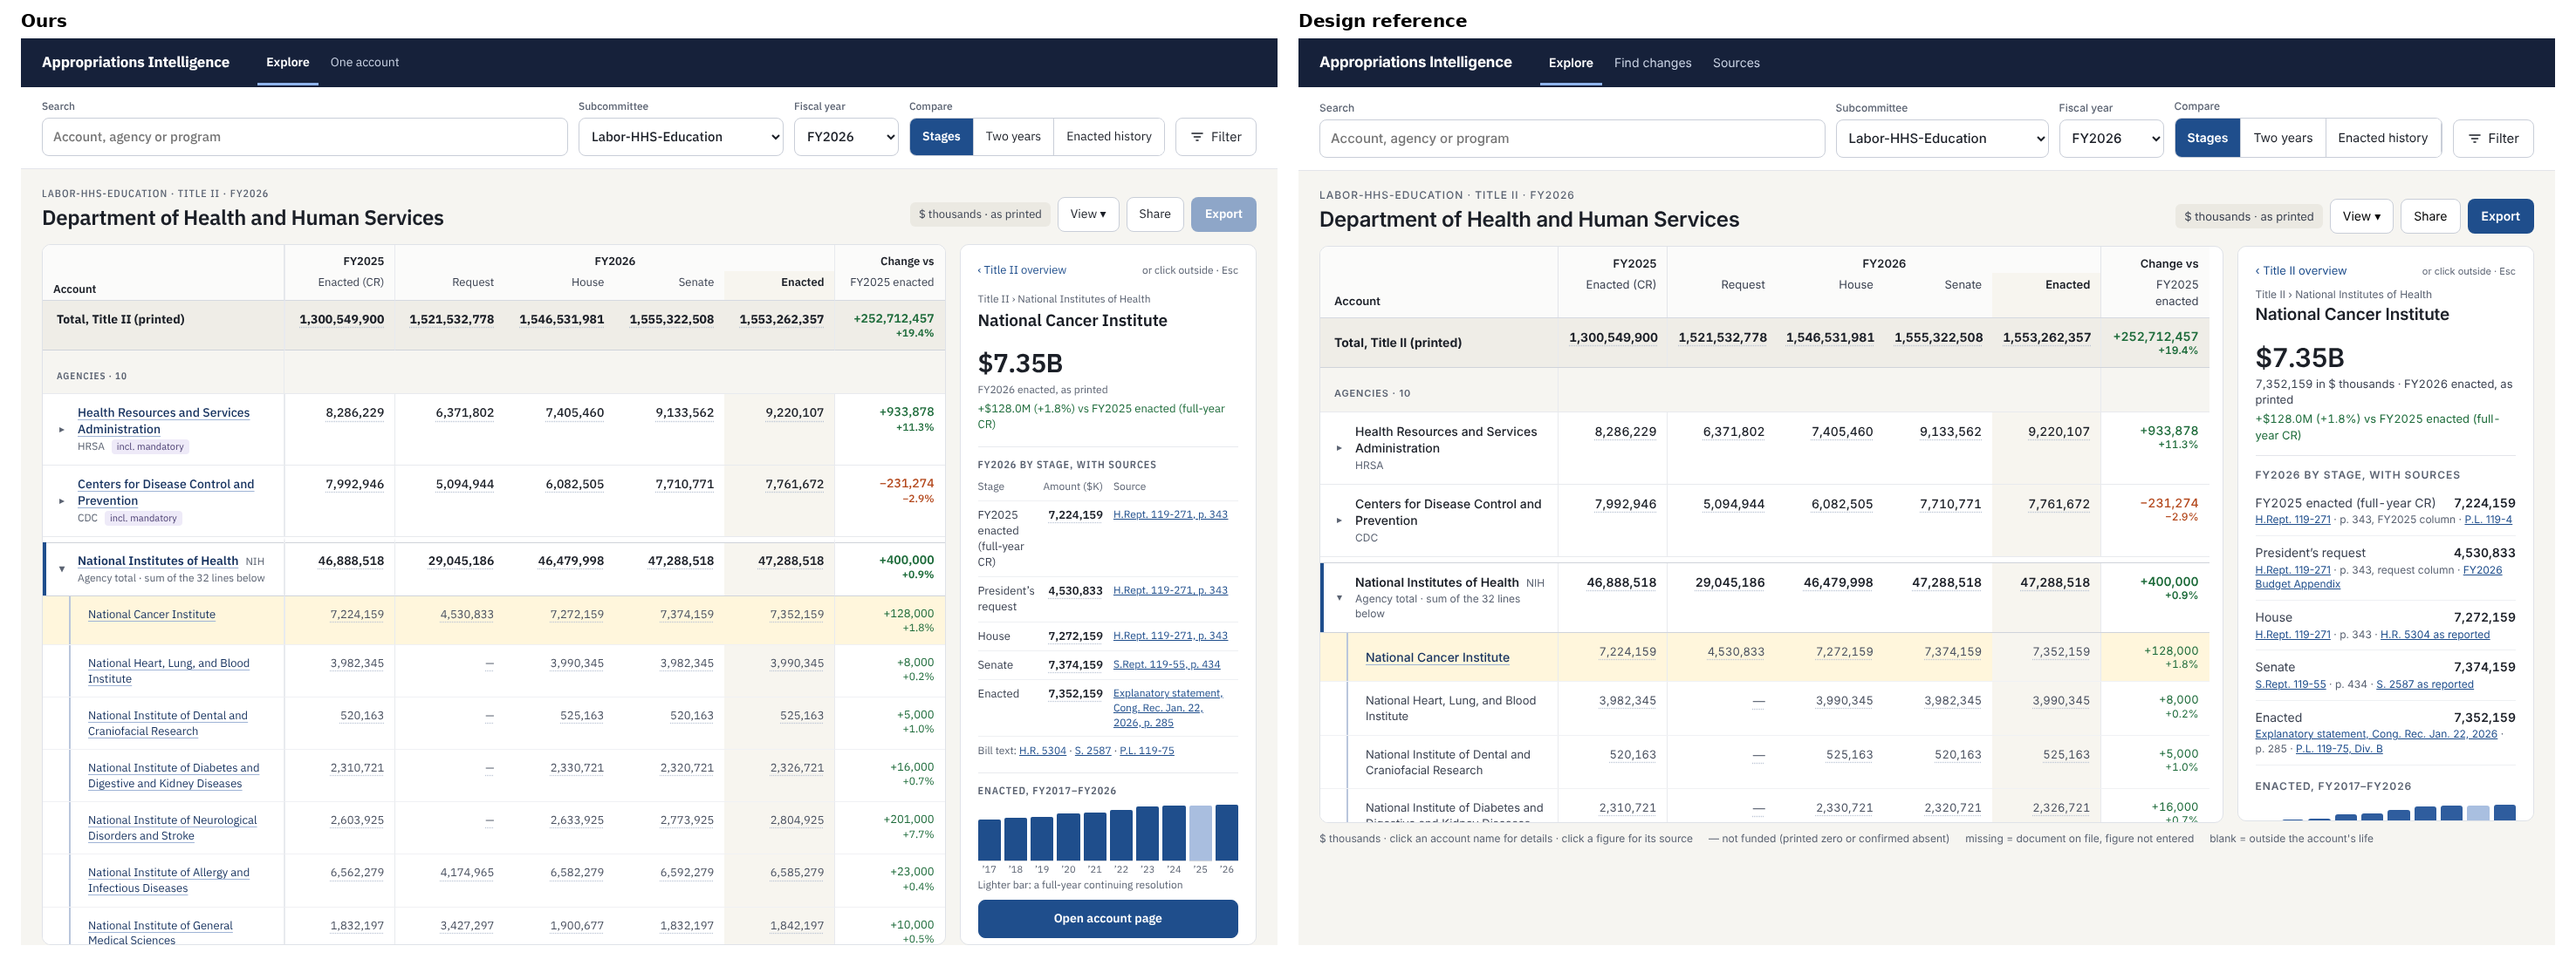
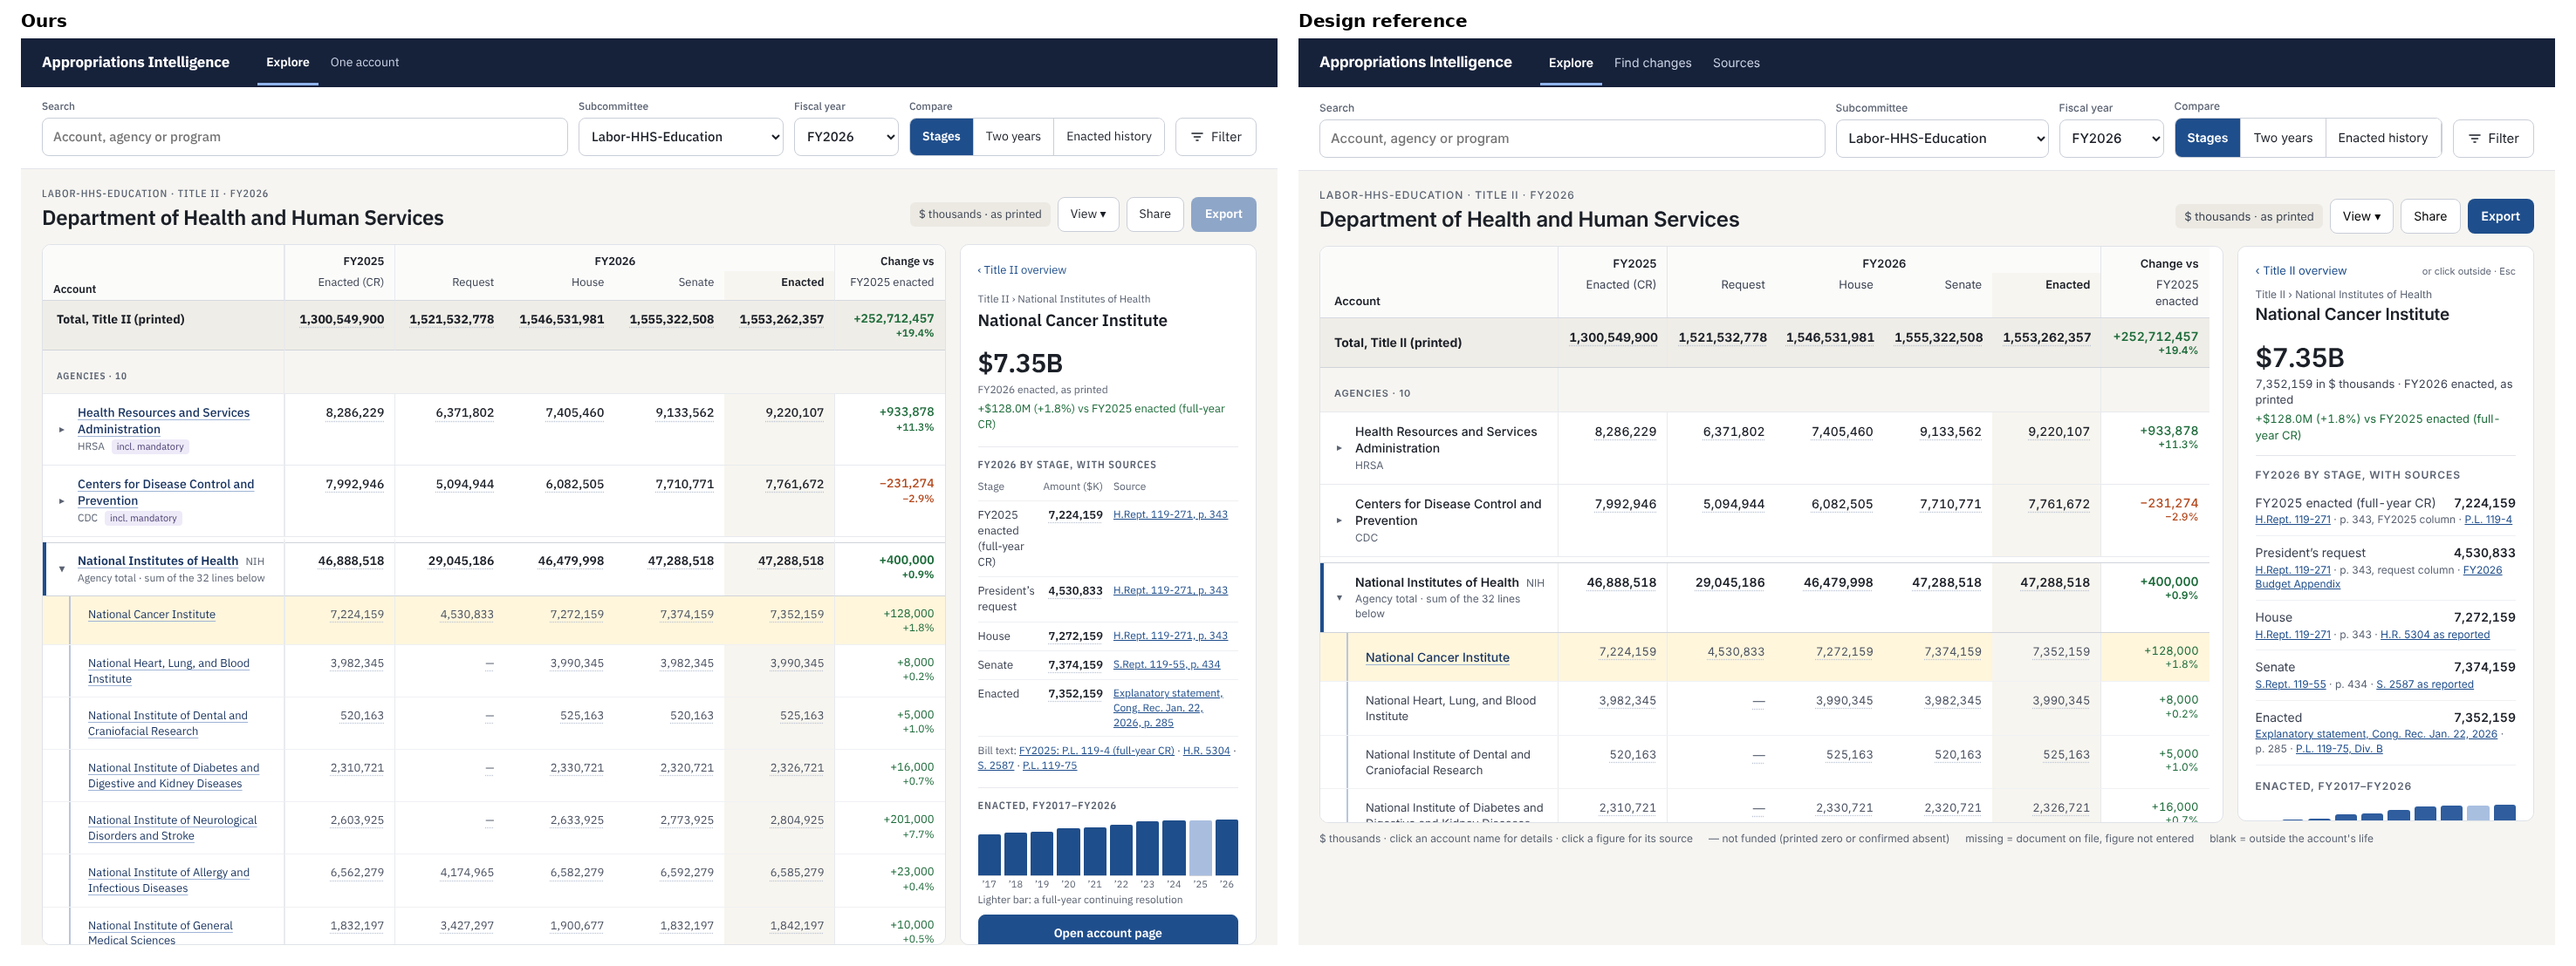
UI-2b: owner answers -- no hint in any panel, prior-year law in Bill text, Budget document label
- The account panel drops the 'or click outside · Esc' hint too.
- Bill text adds the prior year's law first ('FY2025: P.L. 119-4 (full-year
  CR)'); the Budget Appendix stays out.
- A request figure's secondary link reads 'Budget document: FY2026 Budget
  Appendix'.
- SPEC.md 5.1/5.2, handoff, tests and screenshots updated.

Claude-Session: https://claude.ai/code/session_01LbFbyqkzz1NY9atBinQgJP

Changed region(s): [[0.374, 0.8899, 0.4986, 0.9819], [0.374, 0.7671, 0.4986, 0.8592]]

diff --git a/docs/index.html b/docs/index.html
@@ -1819,12 +1819,13 @@ const docLink = (o, cls) => {
               : el("span", { text: docName(o.source_document_id) });
 };
 // the back link and its hint (SPEC 5.3): "‹ Title II overview", "‹ NIH overview" with an agency filter
-function backRow(grid, hint = true) {
+// no "or click outside · Esc" hint in any panel mode (owner, 2026-10-13, UI-2b); click-away and Esc still work
+function backRow(grid) {
   const S = scopeOf(grid), T = printedTotal(grid);
   const what = G.agency ? S.back : T && T.label !== "Bill" ? T.label : scLabels[grid.subcommittee] || grid.subcommittee;
   const b = el("button", { type: "button", class: "backlink", "data-testid": "panel-back", text: `‹ ${what} overview` });
   b.addEventListener("click", () => clearSelection(true));
-  return el("div", { class: "panelback" }, b, hint ? el("span", { class: "ovhint", "data-testid": "panel-hint", text: "or click outside · Esc" }) : null);
+  return el("div", { class: "panelback" }, b);
 }
 function field(label, ...kids) {
   return el("div", { class: "srcfield" }, el("div", { class: "srck", text: label }), ...kids);
@@ -1902,7 +1903,7 @@ function renderSource(grid, box) {
   const first = (o.source_page || "").split("-")[0], href = sourceHref(o);
   const VB = basisOf() !== "printed" ? viewBlock(grid, row, y, st, o) : null;
   // the figure in full dollars, then the form the document prints it in (owner, 2026-10-13, UI-2b)
-  const kids = [backRow(grid, false),
+  const kids = [backRow(grid),
     el("div", { class: "ovk", style: "margin-top:14px", text: "Source for this figure" }),
     el("div", { class: "ovtitle", "data-testid": "src-account", text: name }),
     el("div", { class: "srcstage", "data-testid": "src-stage", text: stageText(grid, y, i) }),
@@ -1923,10 +1924,11 @@ function renderSource(grid, box) {
     doc.append(el("a", { class: "pbtn primary", "data-testid": "src-open", href, target: "_blank", rel: "noopener",
                          text: first ? `Open source document at page ${first}` : "Open source document" }));
   kids.push(doc);
-  // the bill or law: a small secondary link, apart from the source document
+  // the bill or law: a small secondary link, apart from the source document; a request figure's is the budget
+  // document (owner, 2026-10-13)
   if (o.bill_url)
     kids.push(el("div", { class: "srcbill" }, el("a", { href: o.bill_url, target: "_blank", rel: "noopener", "data-testid": "src-bill",
-                                                        text: `Bill / law: ${billText(grid, o, y, st)}` })));
+      text: `${/^PREX /.test(o.bill_id || "") ? "Budget document" : "Bill / law"}: ${billText(grid, o, y, st)}` })));
   const notes = figureNotes(grid, row, y, st);
   if (notes.length)
     kids.push(el("div", { class: "srcnotes", "data-testid": "src-notes" }, el("div", { class: "ovk", text: "Notes" }), el("ul", {}, ...notes)));
@@ -1990,9 +1992,12 @@ function accountView(grid, id0, phone) {
       // a short name ("H.Rept. 119-271, p. 343") stays on one line; a long one wraps between words
       const keep = docName(o.source_document_id).length <= 22 ? { style: "white-space:nowrap" } : {};
       src = href ? el("a", { href, target: "_blank", rel: "noopener", ...keep, text: what }) : el("span", { ...keep, text: what });
-      // the year's bill and law text, listed once under the table (the Budget Appendix is not bill text)
-      if (yy === y && o.bill_url && !/^PREX /.test(o.bill_id || "") && !bills.has(o.bill_url))
-        bills.set(o.bill_url, (o.bill_id || "").replace(/^(P\.L\.|H\.R\.|S\.)\s*/, "$1 "));
+      // the bill and law text, listed once under the table: the year's stages, and the prior year's law as
+      // "FY2025: P.L. 119-4 (full-year CR)" (owner, 2026-10-13); the Budget Appendix is not bill text
+      if (o.bill_url && !/^PREX /.test(o.bill_id || "") && !bills.has(o.bill_url)) {
+        const id = (o.bill_id || "").replace(/^(P\.L\.|H\.R\.|S\.)\s*/, "$1 ");
+        bills.set(o.bill_url, yy === y ? id : `FY${yy}: ${id}` + (crOf(grid, yy) ? " (full-year CR)" : ""));
+      }
     }
     body.append(el("tr", { class: "acctstage", "data-testid": "acct-stage", dataset: { fy: String(yy), stage: st } },
       el("th", { scope: "row", class: "k", text: label }), el("td", { class: "amt" }, amt),

diff --git a/web/index.html b/web/index.html
@@ -1818,12 +1818,13 @@ const docLink = (o, cls) => {
               : el("span", { text: docName(o.source_document_id) });
 };
 // the back link and its hint (SPEC 5.3): "‹ Title II overview", "‹ NIH overview" with an agency filter
-function backRow(grid, hint = true) {
+// no "or click outside · Esc" hint in any panel mode (owner, 2026-10-13, UI-2b); click-away and Esc still work
+function backRow(grid) {
   const S = scopeOf(grid), T = printedTotal(grid);
   const what = G.agency ? S.back : T && T.label !== "Bill" ? T.label : scLabels[grid.subcommittee] || grid.subcommittee;
   const b = el("button", { type: "button", class: "backlink", "data-testid": "panel-back", text: `‹ ${what} overview` });
   b.addEventListener("click", () => clearSelection(true));
-  return el("div", { class: "panelback" }, b, hint ? el("span", { class: "ovhint", "data-testid": "panel-hint", text: "or click outside · Esc" }) : null);
+  return el("div", { class: "panelback" }, b);
 }
 function field(label, ...kids) {
   return el("div", { class: "srcfield" }, el("div", { class: "srck", text: label }), ...kids);
@@ -1901,7 +1902,7 @@ function renderSource(grid, box) {
   const first = (o.source_page || "").split("-")[0], href = sourceHref(o);
   const VB = basisOf() !== "printed" ? viewBlock(grid, row, y, st, o) : null;
   // the figure in full dollars, then the form the document prints it in (owner, 2026-10-13, UI-2b)
-  const kids = [backRow(grid, false),
+  const kids = [backRow(grid),
     el("div", { class: "ovk", style: "margin-top:14px", text: "Source for this figure" }),
     el("div", { class: "ovtitle", "data-testid": "src-account", text: name }),
     el("div", { class: "srcstage", "data-testid": "src-stage", text: stageText(grid, y, i) }),
@@ -1922,10 +1923,11 @@ function renderSource(grid, box) {
     doc.append(el("a", { class: "pbtn primary", "data-testid": "src-open", href, target: "_blank", rel: "noopener",
                          text: first ? `Open source document at page ${first}` : "Open source document" }));
   kids.push(doc);
-  // the bill or law: a small secondary link, apart from the source document
+  // the bill or law: a small secondary link, apart from the source document; a request figure's is the budget
+  // document (owner, 2026-10-13)
   if (o.bill_url)
     kids.push(el("div", { class: "srcbill" }, el("a", { href: o.bill_url, target: "_blank", rel: "noopener", "data-testid": "src-bill",
-                                                        text: `Bill / law: ${billText(grid, o, y, st)}` })));
+      text: `${/^PREX /.test(o.bill_id || "") ? "Budget document" : "Bill / law"}: ${billText(grid, o, y, st)}` })));
   const notes = figureNotes(grid, row, y, st);
   if (notes.length)
     kids.push(el("div", { class: "srcnotes", "data-testid": "src-notes" }, el("div", { class: "ovk", text: "Notes" }), el("ul", {}, ...notes)));
@@ -1989,9 +1991,12 @@ function accountView(grid, id0, phone) {
       // a short name ("H.Rept. 119-271, p. 343") stays on one line; a long one wraps between words
       const keep = docName(o.source_document_id).length <= 22 ? { style: "white-space:nowrap" } : {};
       src = href ? el("a", { href, target: "_blank", rel: "noopener", ...keep, text: what }) : el("span", { ...keep, text: what });
-      // the year's bill and law text, listed once under the table (the Budget Appendix is not bill text)
-      if (yy === y && o.bill_url && !/^PREX /.test(o.bill_id || "") && !bills.has(o.bill_url))
-        bills.set(o.bill_url, (o.bill_id || "").replace(/^(P\.L\.|H\.R\.|S\.)\s*/, "$1 "));
+      // the bill and law text, listed once under the table: the year's stages, and the prior year's law as
+      // "FY2025: P.L. 119-4 (full-year CR)" (owner, 2026-10-13); the Budget Appendix is not bill text
+      if (o.bill_url && !/^PREX /.test(o.bill_id || "") && !bills.has(o.bill_url)) {
+        const id = (o.bill_id || "").replace(/^(P\.L\.|H\.R\.|S\.)\s*/, "$1 ");
+        bills.set(o.bill_url, yy === y ? id : `FY${yy}: ${id}` + (crOf(grid, yy) ? " (full-year CR)" : ""));
+      }
     }
     body.append(el("tr", { class: "acctstage", "data-testid": "acct-stage", dataset: { fy: String(yy), stage: st } },
       el("th", { scope: "row", class: "k", text: label }), el("td", { class: "amt" }, amt),

diff --git a/tests/test_compare.py b/tests/test_compare.py
@@ -1832,7 +1832,13 @@ class ExploreV1(GridBrowser):
             self.assertEqual(r.locator("td").count(), 2)                                  # Stage (th) | Amount | Source
             self.assertEqual(r.locator("a").count(), 1)
             self.assertIn("#page=", r.locator("a").get_attribute("href"))
-        self.assertEqual(self.page.locator("[data-testid=acct-bills] a").count(), 3)
+        self.assertEqual(self.page.locator("[data-testid=acct-bills] a").count(), 4)
+        self.assertNotIn("Budget Appendix", self.page.inner_text("[data-testid=acct-bills]"))
+        self.assertEqual(self.page.locator("[data-testid=panel-hint]").count(), 0)          # no hint in the account panel
+        self.assertNotIn("or click outside", self.page.inner_text("#side-panel"))
+        # a request figure's secondary link is the budget document
+        self.page.locator("[data-testid=acct-stage][data-stage=\"President's Budget\"] [data-testid=acct-stage-fig]").click()
+        self.assertEqual(self.page.inner_text("[data-testid=src-bill]"), "Budget document: FY2026 Budget Appendix")
 
     # 3
     def test_every_value_cell_is_clickable(self):
@@ -1981,7 +1987,7 @@ class ExploreV1(GridBrowser):
                 self.assertEqual(self.page.eval_on_selector_all("[data-testid=acct-table] thead th", "ts => ts.map(t => t.innerText)"),
                                  ["Stage", "Amount ($K)", "Source"])
                 # the bill and law text once, on one line under the table
-                self.assertEqual(text("acct-bills"), "Bill text: H.R. 5304 · S. 2587 · P.L. 119-75")
+                self.assertEqual(text("acct-bills"), "Bill text: FY2025: P.L. 119-4 (full-year CR) · H.R. 5304 · S. 2587 · P.L. 119-75")
                 # a stage's figure opens its source
                 stages.nth(2).locator("[data-testid=acct-stage-fig]").click()
                 self.assertEqual(self.page.inner_text("[data-testid=src-stage]"), "FY2026 House")
@@ -2420,7 +2426,7 @@ class PhoneV1(GridBrowser):
                 enacted = st.nth(4).locator("[data-testid=acct-stage-src] a")
                 self.assertIn("p.\u00a0285", enacted.inner_text())
                 self.assertTrue(enacted.get_attribute("href").endswith("#page=285"))
-                self.assertEqual(sheet.locator("[data-testid=acct-bills]").inner_text(), "Bill text: H.R. 5304 · S. 2587 · P.L. 119-75")
+                self.assertEqual(sheet.locator("[data-testid=acct-bills]").inner_text(), "Bill text: FY2025: P.L. 119-4 (full-year CR) · H.R. 5304 · S. 2587 · P.L. 119-75")
                 self.assertEqual(sheet.locator("[data-testid=acct-bar]").count(), 10)
                 self.assertTrue(sheet.locator("[data-testid=acct-open]").is_visible())
                 self.assertIn(f"acct={self.NCI}", self.page.url)

diff --git a/reference/ui/explore-v1/SPEC.md b/reference/ui/explore-v1/SPEC.md
@@ -111,16 +111,16 @@ There are no tiles above the grid: the headline figures live in the overview pan
 - Clicking another figure moves the selection.
 
 Adopted in UI-2b (owner decision, 2026-10-13); this replaces the panel list above where they differ:
-- The panel has no "or click outside · Esc" hint (click-away and Esc still work).
+- No panel mode shows the "or click outside · Esc" hint, the account panel included (click-away and Esc still work; section 5.3's hint no longer applies).
 - The big figure is in full dollars ("$7,352,159,000"), with "printed as 7,352,159 in $ thousands" under it.
 - One block headed "Source document": the document's short name (plain text, not a link), its page, and the "Printed as" line, then one primary button "Open source document at page N" (`url_or_identifier#page=N`). The document name is no longer a separate link to page 1.
-- The bill or law is a small secondary link, "Bill / law: P.L. 119-75, Div. B", visibly separate from the source document.
+- The bill or law is a small secondary link, "Bill / law: P.L. 119-75, Div. B", visibly separate from the source document. For a request figure it reads "Budget document: FY2026 Budget Appendix".
 - "Notes" when the figure has any (section 4, Note markers).
 
 ### 5.2 Click an account name → account view in the panel
 The panel shows: the path (Title II › agency); the name; the headline in short form ($7.35B) with the exact $K and "FY2026 enacted, as printed"; the change vs the prior year when both are values; "FY2026 by stage, with sources" (each stage: amount, then document · page · bill link); "Enacted, FY2017–FY2026" bars (FY2025 CR bar lighter, gaps for non-values, never zero bars; the bars start at zero); Open account page; Watch (browser-only, section 9). The selected account row gets a light yellow fill (`#fff6dc`).
 
-Adopted in UI-2b (owner decision, 2026-10-13); this replaces the stage list above: the header is the path, the name, the short headline ($7.35B, captioned "FY2026 enacted, as printed") and the change vs the prior year. Then a three-column table, Stage | Amount ($K) | Source, where Source is one link, "H.Rept. 119-271, p. 343", to that page. The bill and law links of the year's stages sit on one line under the table ("Bill text: H.R. 5304 · S. 2587 · P.L. 119-75"); the per-row bill links are gone. History bars as before. The phone sheet (section 6) shares this layout.
+Adopted in UI-2b (owner decision, 2026-10-13); this replaces the stage list above: the header is the path, the name, the short headline ($7.35B, captioned "FY2026 enacted, as printed") and the change vs the prior year. Then a three-column table, Stage | Amount ($K) | Source, where Source is one link, "H.Rept. 119-271, p. 343", to that page. The bill and law links sit on one line under the table: the prior year's law first, labelled with its year and "(full-year CR)" when it was one, then the year's bills and law ("Bill text: FY2025: P.L. 119-4 (full-year CR) · H.R. 5304 · S. 2587 · P.L. 119-75"). The Budget Appendix is not bill text and is not listed. The per-row bill links are gone. History bars as before. The phone sheet (section 6) shares this layout.
 
 ### 5.3 Panel modes and returning to the overview
 Precedence: figure source > account > overview. Each non-overview mode shows "‹ Title II overview" (or "‹ NIH overview" with an agency filter) and the hint "or click outside · Esc". The overview returns when you:

diff --git a/reference/handoff.md b/reference/handoff.md
@@ -429,7 +429,7 @@ lines sort by size) and follows the Amount basis (`amt=`, `timing=`) as the grid
   the selected year's stages, Budget Appendix excluded, deduplicated, labelled by bill_id.
 - SPEC.md §3, §4, §5.1, §5.2, §6, §8 record the decisions. Screenshots: screenshots/ui-2b/.
 
-Open for the owner:
-1. The account panel keeps "or click outside · Esc" (the brief removed it from the figure panel only).
-2. "Bill text:" leaves out the prior year's law (P.L. 119-4) and the Budget Appendix, following the brief's example.
-3. The figure panel's secondary link reads "Bill / law: FY2026 Budget Appendix" for a request figure.
+Owner answers (2026-10-13, same PR), recorded in SPEC §5.1/§5.2:
+1. The hint is gone from every panel mode (`backRow` has no hint; `panel-hint` no longer rendered).
+2. "Bill text:" adds the prior year's law first, "FY2025: P.L. 119-4 (full-year CR)"; the Budget Appendix stays out.
+3. A request figure's secondary link reads "Budget document: FY2026 Budget Appendix".
